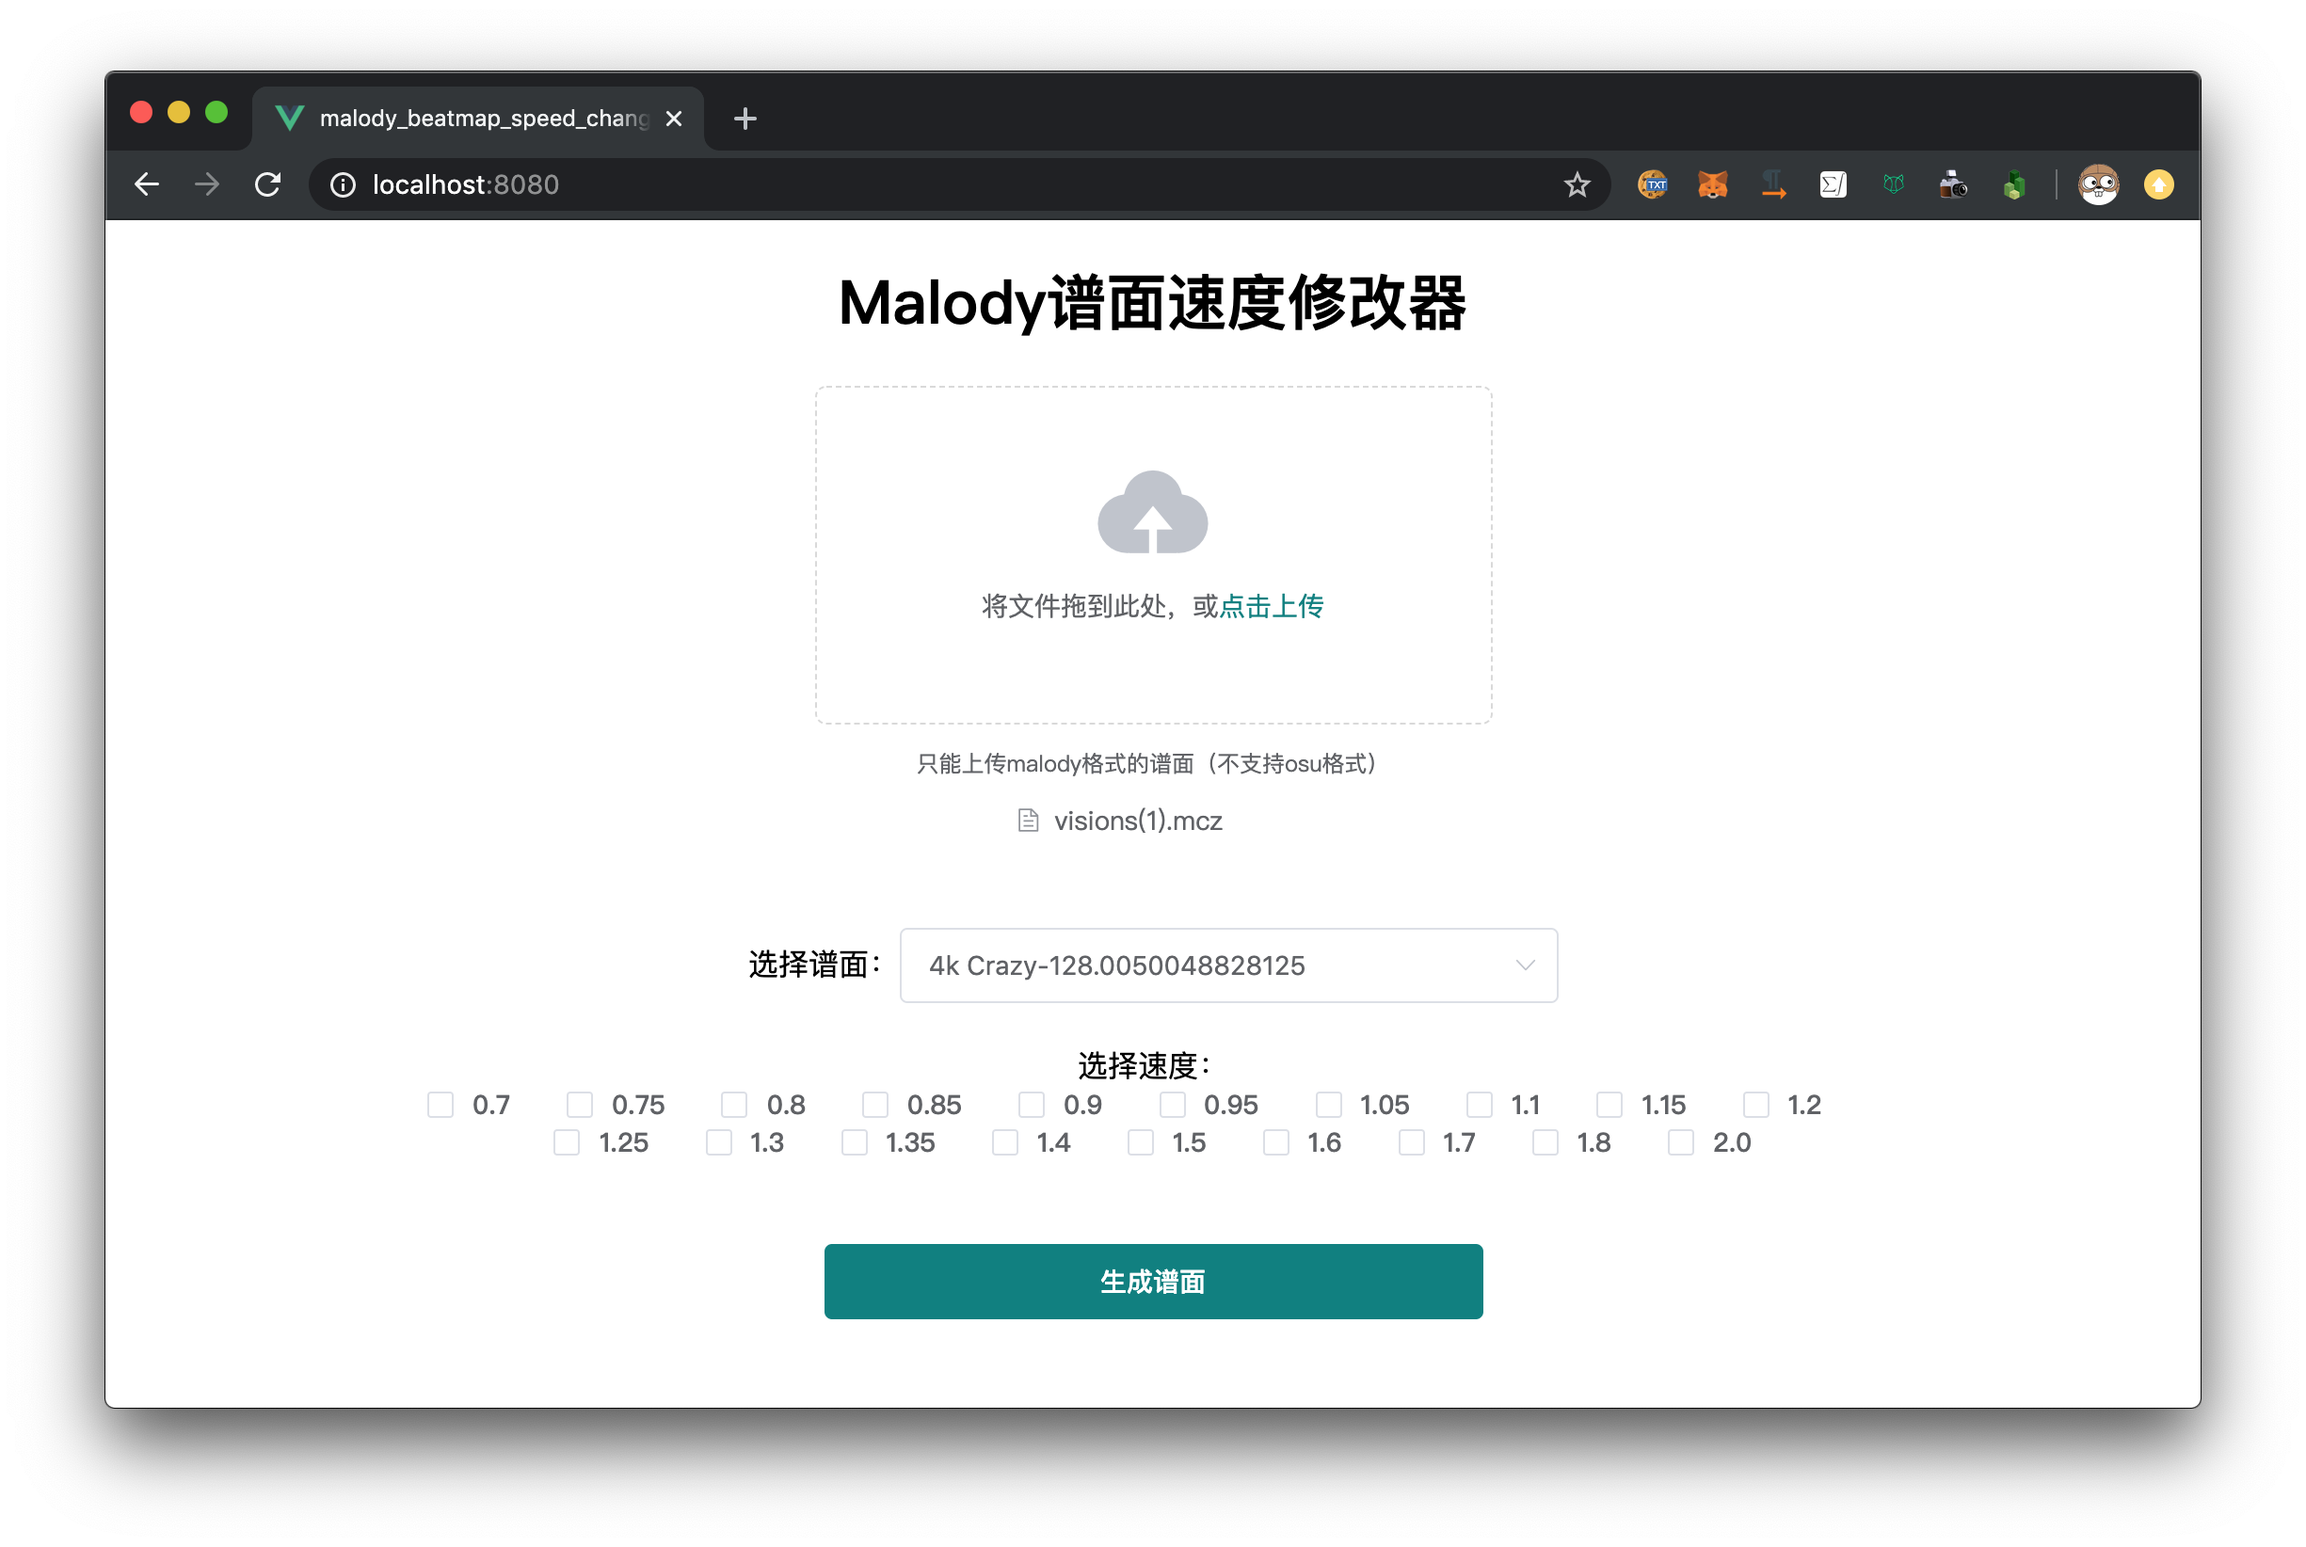
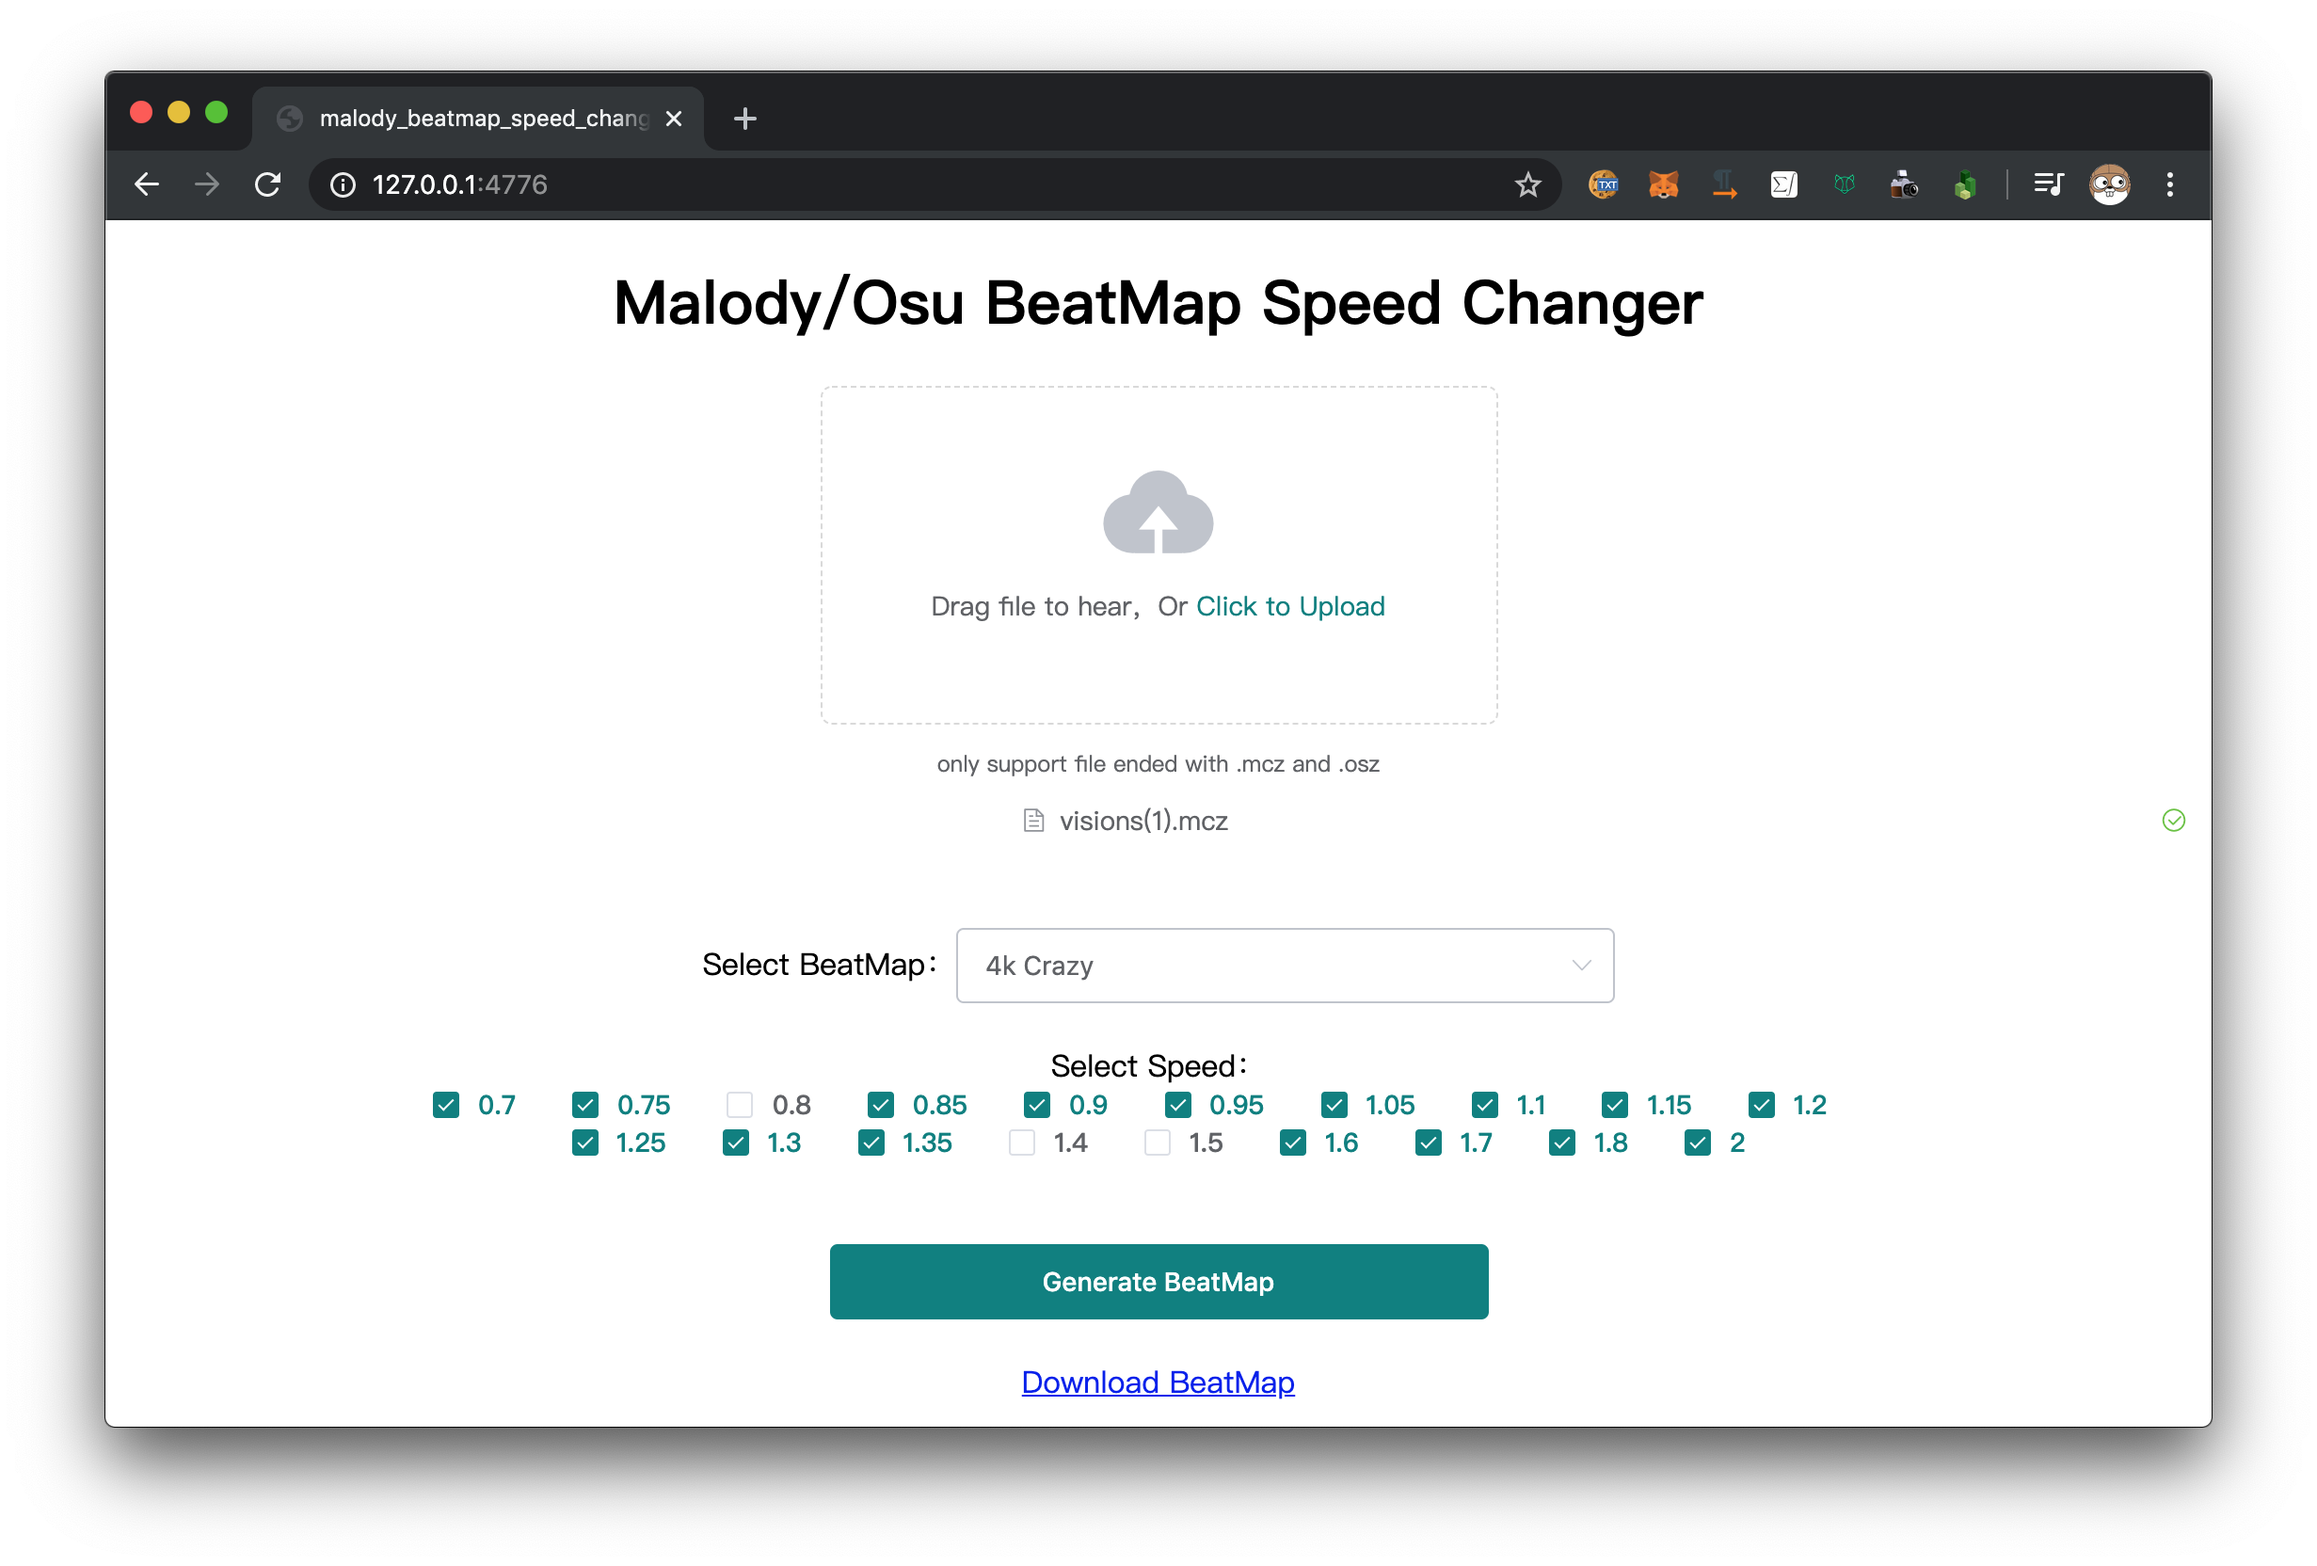
new file:   export_windows_exe.bat

diff --git a/dist/static/js/app.b8c7bac3.js b/dist/static/js/app.b8c7bac3.js
@@ -1,0 +1,2 @@
+(function(e){function t(t){for(var a,o,l=t[0],i=t[1],c=t[2],p=0,d=[];p<l.length;p++)o=l[p],Object.prototype.hasOwnProperty.call(s,o)&&s[o]&&d.push(s[o][0]),s[o]=0;for(a in i)Object.prototype.hasOwnProperty.call(i,a)&&(e[a]=i[a]);u&&u(t);while(d.length)d.shift()();return r.push.apply(r,c||[]),n()}function n(){for(var e,t=0;t<r.length;t++){for(var n=r[t],a=!0,l=1;l<n.length;l++){var i=n[l];0!==s[i]&&(a=!1)}a&&(r.splice(t--,1),e=o(o.s=n[0]))}return e}var a={},s={app:0},r=[];function o(t){if(a[t])return a[t].exports;var n=a[t]={i:t,l:!1,exports:{}};return e[t].call(n.exports,n,n.exports,o),n.l=!0,n.exports}o.m=e,o.c=a,o.d=function(e,t,n){o.o(e,t)||Object.defineProperty(e,t,{enumerable:!0,get:n})},o.r=function(e){"undefined"!==typeof Symbol&&Symbol.toStringTag&&Object.defineProperty(e,Symbol.toStringTag,{value:"Module"}),Object.defineProperty(e,"__esModule",{value:!0})},o.t=function(e,t){if(1&t&&(e=o(e)),8&t)return e;if(4&t&&"object"===typeof e&&e&&e.__esModule)return e;var n=Object.create(null);if(o.r(n),Object.defineProperty(n,"default",{enumerable:!0,value:e}),2&t&&"string"!=typeof e)for(var a in e)o.d(n,a,function(t){return e[t]}.bind(null,a));return n},o.n=function(e){var t=e&&e.__esModule?function(){return e["default"]}:function(){return e};return o.d(t,"a",t),t},o.o=function(e,t){return Object.prototype.hasOwnProperty.call(e,t)},o.p="/";var l=window["webpackJsonp"]=window["webpackJsonp"]||[],i=l.push.bind(l);l.push=t,l=l.slice();for(var c=0;c<l.length;c++)t(l[c]);var u=i;r.push([0,"chunk-vendors"]),n()})({0:function(e,t,n){e.exports=n("56d7")},"56d7":function(e,t,n){"use strict";n.r(t);n("e260"),n("e6cf"),n("cca6"),n("a79d");var a=n("2b0e"),s=function(){var e=this,t=e.$createElement,n=e._self._c||t;return n("div",{attrs:{id:"app"}},[n("center",[n("h1",[e._v("Malody/Osu BeatMap Speed Changer")]),n("el-upload",{staticClass:"upload-demo",attrs:{drag:"",name:"file","on-success":e.handleUploadSuccess,action:"/api/upload_file"}},[n("i",{staticClass:"el-icon-upload"}),n("div",{staticClass:"el-upload__text"},[e._v("Drag file to hear，Or "),n("em",[e._v("Click to Upload")])]),n("div",{staticClass:"el-upload__tip",attrs:{slot:"tip"},slot:"tip"},[e._v("only support file ended with .mcz and .osz")])]),0!==e.beatmaps.length?n("div",[n("br"),n("br"),n("label",[e._v("Select BeatMap：")]),n("el-select",{staticStyle:{width:"350px"},attrs:{placeholder:"Please Select"},model:{value:e.index,callback:function(t){e.index=t},expression:"index"}},e._l(e.beatmaps,(function(e){return n("el-option",{key:e.id,attrs:{label:e.version,value:e.id}})})),1),n("br"),n("br"),n("label",[e._v("Select Speed：")]),n("el-checkbox-group",{staticStyle:{"max-width":"800px"},model:{value:e.checkedSpeeds,callback:function(t){e.checkedSpeeds=t},expression:"checkedSpeeds"}},e._l(e.speeds,(function(t){return n("el-checkbox",{key:t,attrs:{label:t}},[e._v(e._s(t))])})),1),n("br"),n("br"),n("el-button",{staticStyle:{width:"350px"},attrs:{type:"primary"},on:{click:e.getBeatMaps}},[e._v("Generate BeatMap")]),n("br"),n("br"),e.show_result?n("a",{attrs:{href:"/api/get_file/"+e.result_file}},[e._v("Download BeatMap")]):e._e()],1):e._e()],1)],1)},r=[],o=n("1157"),l=n.n(o),i={get:function(e,t,n){e="/api"+e,l.a.ajax({type:"GET",url:e,dataType:"json",data:t,async:!0,success:function(e){n(e)},error:function(){n(null)}})},post:function(e,t,n){e="/api"+e,l.a.ajax({type:"POST",url:e,dataType:"json",data:t,async:!0,success:function(e){n(e)},error:function(){n(null)}})}},c={name:"app",data:function(){return{beatmaps:[],speeds:[],checkedSpeeds:[],index:0,show_result:!1,result_file:""}},mounted:function(){var e=this,t=this.$loading({lock:!0,text:"Loading",spinner:"el-icon-loading",background:"rgba(0, 0, 0, 0.7)"});i.get("/get_speeds",{},(function(n){t.close(),e.speeds=n.speeds}))},methods:{handleUploadSuccess:function(e){e.success?(this.$message({message:"Upload Success",type:"success"}),this.show_result=!1,this.beatmaps=e.beatmaps,console.log(this.beatmaps)):this.$message.error(e.msg)},getBeatMaps:function(){var e=this;console.log(this.index),console.log(this.checkedSpeeds);var t=this.$loading({lock:!0,text:"Loading",spinner:"el-icon-loading",background:"rgba(0, 0, 0, 0.7)"});i.get("/generate_beatmaps",{speeds:JSON.stringify(this.checkedSpeeds),index:this.index},(function(n){t.close(),n.success?(e.show_result=!0,e.result_file=n.file):(e.show_result=!1,e.$message.error("Error occurred，generation for beatmap failed"))}))}}},u=c,p=n("2877"),d=Object(p["a"])(u,s,r,!1,null,null,null),f=d.exports,h=n("5c96"),b=n.n(h);n("c69f");a["default"].use(b.a),a["default"].config.productionTip=!1,new a["default"]({render:function(e){return e(f)}}).$mount("#app")},c69f:function(e,t,n){}});
+//# sourceMappingURL=app.b8c7bac3.js.map

diff --git a/src/App.vue b/src/App.vue
@@ -1,7 +1,7 @@
 <template>
   <div id="app">
     <center>
-      <h1>Malody/Osu谱面速度修改器</h1>
+      <h1>Malody/Osu BeatMap Speed Changer</h1>
       <el-upload
               class="upload-demo"
               drag
@@ -9,14 +9,14 @@
               :on-success="handleUploadSuccess"
               action="/api/upload_file">
         <i class="el-icon-upload"></i>
-        <div class="el-upload__text">将文件拖到此处，或<em>点击上传</em></div>
-        <div class="el-upload__tip" slot="tip">只能支持mcz或者osz格式的文件</div>
+        <div class="el-upload__text">Drag file to hear，Or <em>Click to Upload</em></div>
+        <div class="el-upload__tip" slot="tip">only support file ended with .mcz and .osz</div>
       </el-upload>
 
       <div v-if="beatmaps.length !== 0">
         <br><br>
-        <label>选择谱面：</label>
-        <el-select v-model="index" placeholder="请选择" style="width: 350px">
+        <label>Select BeatMap：</label>
+        <el-select v-model="index" placeholder="Please Select" style="width: 350px">
           <el-option
                   v-for="item in beatmaps"
                   :key="item.id"
@@ -26,15 +26,15 @@
         </el-select>
 
         <br><br>
-        <label>选择速度：</label>
+        <label>Select Speed：</label>
         <el-checkbox-group v-model="checkedSpeeds" style="max-width: 800px">
           <el-checkbox v-for="speed in speeds" :label="speed" :key="speed">{{speed}}</el-checkbox>
         </el-checkbox-group>
 
         <br><br>
-        <el-button type="primary" style="width: 350px" @click="getBeatMaps">生成谱面</el-button>
-
-        <a v-if="show_result" :href="'/api/get_file/' + result_file">下载谱面</a>
+        <el-button type="primary" style="width: 350px" @click="getBeatMaps">Generate BeatMap</el-button>
+        <br><br>
+        <a v-if="show_result" :href="'/api/get_file/' + result_file">Download BeatMap</a>
 
       </div>
 
@@ -75,7 +75,7 @@ export default {
 
       if (res.success) {
         this.$message({
-          message: '上传成功',
+          message: 'Upload Success',
           type: 'success'
         });
         this.show_result = false;
@@ -108,7 +108,7 @@ export default {
           this.result_file = res.file;
         }else {
           this.show_result = false;
-          this.$message.error("发生错误，生成谱面失败");
+          this.$message.error("Error occurred，generation for beatmap failed");
         }
       })
     }

diff --git a/dist/index.html b/dist/index.html
@@ -1,1 +1,1 @@
-<!DOCTYPE html><html lang=en><head><meta charset=utf-8><meta http-equiv=X-UA-Compatible content="IE=edge"><meta name=viewport content="width=device-width,initial-scale=1"><link rel=icon href=/favicon.ico><title>malody_beatmap_speed_changer</title><link href=/static/css/app.f2a1dbfb.css rel=preload as=style><link href=/static/js/app.c2d6164c.js rel=preload as=script><link href=/static/js/chunk-vendors.91c825d4.js rel=preload as=script><link href=/static/css/app.f2a1dbfb.css rel=stylesheet></head><body><noscript><strong>We're sorry but malody_beatmap_speed_changer doesn't work properly without JavaScript enabled. Please enable it to continue.</strong></noscript><div id=app></div><script src=/static/js/chunk-vendors.91c825d4.js></script><script src=/static/js/app.c2d6164c.js></script></body></html>
+<!DOCTYPE html><html lang=en><head><meta charset=utf-8><meta http-equiv=X-UA-Compatible content="IE=edge"><meta name=viewport content="width=device-width,initial-scale=1"><link rel=icon href=/favicon.ico><title>malody_beatmap_speed_changer</title><link href=/static/css/app.f2a1dbfb.css rel=preload as=style><link href=/static/js/app.b8c7bac3.js rel=preload as=script><link href=/static/js/chunk-vendors.91c825d4.js rel=preload as=script><link href=/static/css/app.f2a1dbfb.css rel=stylesheet></head><body><noscript><strong>We're sorry but malody_beatmap_speed_changer doesn't work properly without JavaScript enabled. Please enable it to continue.</strong></noscript><div id=app></div><script src=/static/js/chunk-vendors.91c825d4.js></script><script src=/static/js/app.b8c7bac3.js></script></body></html>

diff --git a/main.py b/main.py
@@ -1,6 +1,4 @@
 from flask import Flask, send_from_directory, request
-import json
-import os
 from backend.beatmap_helper import *
 from backend.utils import *
 import traceback
@@ -51,10 +49,10 @@ def api_get_speeds():
 def api_upload_file():
     if request.method == 'POST':
         if 'file' not in request.files:
-            return json.dumps({'success': False, 'msg': '请求参数错误'})
+            return json.dumps({'success': False, 'msg': 'error parameters'})
         file = request.files['file']
         if file.filename == '':
-            return json.dumps({'success': False, 'msg': '没选择文件'})
+            return json.dumps({'success': False, 'msg': 'no file selected'})
         else:
             if file and allowed_file(file.filename):
                 origin_file_name = file.filename
@@ -66,12 +64,12 @@ def api_upload_file():
                 beatmaps = get_beatmaps(create=True)
 
                 if len(beatmaps) != 0:
-                    return json.dumps({'success': True, 'beatmaps': beatmaps, 'msg': '成功'})
+                    return json.dumps({'success': True, 'beatmaps': beatmaps, 'msg': 'success'})
                 else:
-                    return json.dumps({'success': False, 'msg': '未找到谱面'})
+                    return json.dumps({'success': False, 'msg': 'cannot find beatmap'})
 
             else:
-                return json.dumps({'success': False, 'msg': '文件类型错误，请上传mcz格式'})
+                return json.dumps({'success': False, 'msg': 'error file type'})
 
 
 @app.route('/api/generate_beatmaps')

diff --git a/backend/beatmap_helper.py b/backend/beatmap_helper.py
@@ -11,6 +11,7 @@ def get_tmp_dir():
     with open(os.path.join("upload_dir", "now_dir.txt"), "r") as f:
         return f.read()
 
+
 def create_tmp_dir():
     _dir = str(uuid.uuid4())
     os.mkdir(os.path.join("upload_dir", "tmp", _dir))

diff --git a/backend/utils.py b/backend/utils.py
@@ -1,6 +1,4 @@
 
-UPLOAD_DIR = ""
-
 
 def get_file_extension(filename):
     if "." not in filename:

diff --git a/README.md b/README.md
@@ -1,34 +1,43 @@
 # Malody Beatmap Speed Changer
-Malody谱面调速器。
+Malody谱面调速器，同时支持Osu格式。
 
-## windows下载链接
+Malody Beatmap Speed Changer, also support .osu files.
+
+## Windows Download
+### 百度云
 链接：https://pan.baidu.com/s/1OiAhw0WEm3F8appouSkxgw 
 提取码：2bbs
 
 操作视频：[https://www.bilibili.com/video/av86027458](https://www.bilibili.com/video/av86027458)
 
-## 谱面展示
-通过本软件，可以生成各种速度的Malody谱面。
+### Google Drive
+To Upload.....
+
+## Screenshot
+With this software, you can change beatmap speeds as follow.
+### Malody Screenshot
 ![](screenshot2.png)
 
-## 安装运行步骤
-### 安装Python3
-去[Python官网](https://www.python.org/downloads/)下载安装Python3，并添加到Path
+### Osu Screenshot
+![](screenshot3.png)
 
-### 安装依赖
+## Installation And Setup
+### Install Python3
+download python installer from [Python Website](https://www.python.org/downloads/), and add Python executable files to your `Path`.
+
+### Install Dependencies
 ```
 pip3 install -r requirements.txt 
 ```
 
 
-### 启动运行
-运行main.py
+### Start This App
 ```
 python3 main.py
 ```
-然后打开[http://localhost:4776](http://localhost:4776)就可以看到以下界面：
+Run main.py, and open [http://localhost:4776](http://localhost:4776) with your web browser, you can see as follow:
 ![](screenshot.png)
 
 
-## 其他速度
-修改speeds.txt即可。最大速度为2.0，最慢速度为0.5。精确到千分位，比如0.6955速度会转换为0.695。
+## Other Speeds
+If the speeds which have been listed cannot satisfy your requirements. You can modify `speed.txt`.
